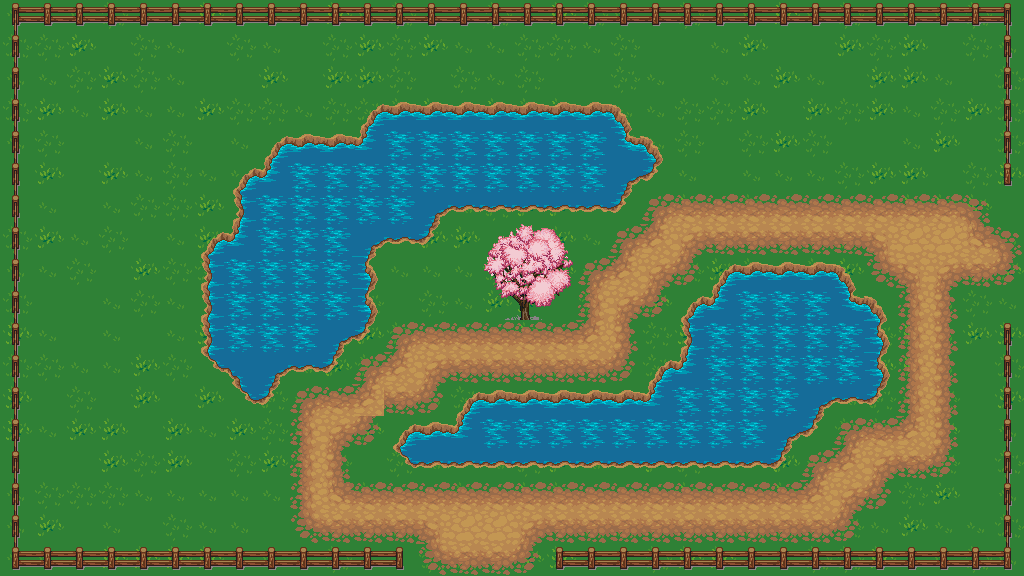
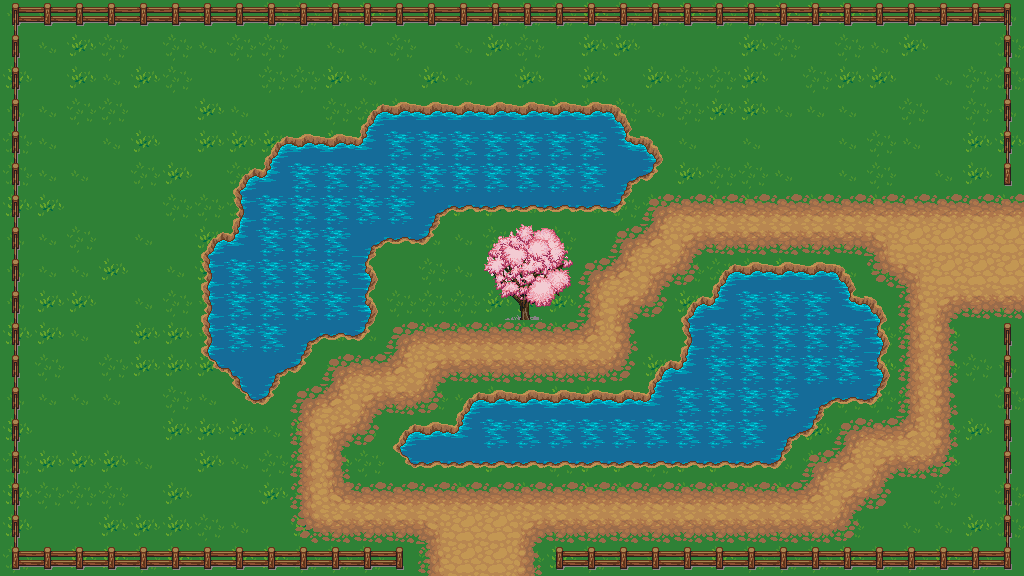
Finalized map changes

diff --git a/mapGen.py b/mapGen.py
@@ -61,8 +61,6 @@ class Tile():
         # 1110 1111
         #&0001 0000
         #printNow(not around & upAndRight)
-        printNow(around)
-        printNow(self.desc)
         if self.desc == "fence":
             if around & right:
                 if around & left:
@@ -383,19 +381,19 @@ nfield += "fggggggggggggggggggggggggggggggf"
 nfield += "fggggggggggwwwwwwwwwgggggggggggf"
 nfield += "fgggggggwwwwwwwwwwwwwggggggggggf"
 nfield += "fggggggwwwwwwwwwwwwwwggggggggggf"
-nfield += "fggggggwwwwwwwwwwwwwdddddddddddg"
+nfield += "fggggggwwwwwwwwwwwwwdddddddddddd"
 nfield += "fgggggwwwwwwwwgt,,gddddddddddddd"
 nfield += "fgggggwwwwwwggg,,,ddddwwwwwddddd"
-nfield += "fgggggwwwwwwggg,,,dddwwwwwwwddgg"
+nfield += "fgggggwwwwwwggg,,,dddwwwwwwwdddd"
 nfield += "fgggggwwwwwwddddddddgwwwwwwwddgf"
-nfield += "fgggggwwwwwdddddddddwwwwwwwwddgf"
+nfield += "fgggggwwwwddddddddddwwwwwwwwddgf"
 nfield += "fggggggwwdddddwwwwwwwwwwwwwwddgf"
 nfield += "fggggggggdddwwwwwwwwwwwwwwddddgf"
 nfield += "fggggggggddgwwwwwwwwwwwwwdddddgf"
 nfield += "fggggggggdddddddddddddddddddgggf"
 nfield += "fggggggggddddddddddddddddddggggf"
 nfield += "fffffffffffffddddfffffffffffffff"
-fieldMap = Map(field, grass, "Nfield.png")
+fieldMap = Map(nfield, grass, "Nfield.png")
 
 efield  = "fffffffffffffddddfffffffffffffff"
 efield += "fggggggggggggddddggggggggggggggf"
@@ -415,7 +413,7 @@ efield += "fgwwwwwwwwwwwggggggggggg,,,,,,gf"
 efield += "fggwwwwwwwgggggggggggggg,,,,,,gf"
 efield += "fggggggggggggggggggggggggggggggf"
 efield += "ffffffffffffffffffffffffffffffff"
-fieldMap = Map(field, grass, "Efield.png")
+fieldMap = Map(efield, grass, "Efield.png")
 
 nefield  = "ffffffffffffffffffffffffffffffff"
 nefield += "fggggggggggggggggggggggggggggggf"
@@ -435,7 +433,7 @@ nefield += "fgggggggdddddddddggggggggggggggf"
 nefield += "fggggggggggggddddggggggggggggggf"
 nefield += "fggggggggggggddddggggggggggggggf"
 nefield += "fffffffffffffddddfffffffffffffff"
-fieldMap = Map(field, grass, "NEfield.png")
+fieldMap = Map(nefield, grass, "NEfield.png")
 
 entrance  = "SSSSSSSSSSSSSSSllSSSSSSSSSSSSSSS"
 entrance += "SllllllllllllllllllllllllllllllS"
@@ -455,7 +453,7 @@ entrance += "SllllllllllllllllllllllllllllllS"
 entrance += "SllllllllllllllllllllllllllllllS"
 entrance += "SllllllllllllllllllllllllllllllS"
 entrance += "SSSSSSSSSSSSSSSSSSSSSSSSSSSSSSSS"
-dungeonMap = Map(dungeon, lavaRock, "dungeonMap.png")
+#dungeonMap = Map(entrance, lavaRock, "dungeonMap.png")
 
 westRoom  = "SSSSSSSSSSSSSSSllSSSSSSSSSSSSSSS"
 westRoom += "SllllllllllllllllllllllllllllllS"
@@ -475,7 +473,7 @@ westRoom += "SllllllllllllllllllllllllllllllS"
 westRoom += "SllllllllllllllllllllllllllllllS"
 westRoom += "SllllllllllllllllllllllllllllllS"
 westRoom += "SSSSSSSSSSSSSSSSSSSSSSSSSSSSSSSS"
-dungeonMap = Map(dungeon, lavaRock, "dungeonMap.png")
+#dungeonMap = Map(westRoom, lavaRock, "dungeonMap.png")
 
 eastRoom  = "SSSSSSSSSSSSSSSllSSSSSSSSSSSSSSS"
 eastRoom += "SllllllllllllllllllllllllllllllS"
@@ -495,7 +493,7 @@ eastRoom += "SlllLLLLLLLlllllllllLLLLLLLllllS"
 eastRoom += "SllllllllllllllllllllllllllllllS"
 eastRoom += "SllllllllllllllllllllllllllllllS"
 eastRoom += "SSSSSSSSSSSSSSSllSSSSSSSSSSSSSSS"
-dungeonMap = Map(dungeon, lavaRock, "dungeonMap.png")
+#dungeonMap = Map(eastRoom, lavaRock, "dungeonMap.png")
 
 keyRoom  = "SSSSSSSSSSSSSSSSSSSSSSSSSSSSSSSS"
 keyRoom += "SLLLLLLLLLLLLLLLLLLLLLLLLLLLLLLS"
@@ -515,7 +513,7 @@ keyRoom += "SLLLLLLLLLLLLLllllLLLLLLLLLLLLLS"
 keyRoom += "SLLLLLLLLLLLLLllllLLLLLLLLLLLLLS"
 keyRoom += "SLLLLLLLLLLLLLllllLLLLLLLLLLLLLS"
 keyRoom += "SSSSSSSSSSSSSSSllSSSSSSSSSSSSSSS"
-dungeonMap = Map(dungeon, lavaRock, "dungeonMap.png")
+#dungeonMap = Map(keyRoom, lava, "dungeonMap.png")
 
 miniBoss  = "SSSSSSSSSSSSSSSSSSSSSSSSSSSSSSSS"
 miniBoss += "SLLLLLLLLLLLLLLLLLLLLLLLLLLLLLLS"
@@ -535,7 +533,7 @@ miniBoss += "SLLLLLLLLLLLLLllllLLLLLLLLLLLLLS"
 miniBoss += "SLLLLLLLLLLLLLllllLLLLLLLLLLLLLS"
 miniBoss += "SLLLLLLLLLLLLLllllLLLLLLLLLLLLLS"
 miniBoss += "SSSSSSSSSSSSSSSllSSSSSSSSSSSSSSS"
-dungeonMap = Map(dungeon, lavaRock, "dungeonMap.png")
+#dungeonMap = Map(miniBoss, lava, "dungeonMap.png")
 
 bossKey  = "SSSSSSSSSSSSSSSllSSSSSSSSSSSSSSS"
 bossKey += "SLLLLLLLLLLLLLllllLLLLLLLLLLLLLS"
@@ -555,7 +553,7 @@ bossKey += "SLLLLLLllllllllllllllllllLLLLLLS"
 bossKey += "SLLLLLLLLLLLLLLLLLLLLLLLLLLLLLLS"
 bossKey += "SLLLLLLLLLLLLLLLLLLLLLLLLLLLLLLS"
 bossKey += "SSSSSSSSSSSSSSSSSSSSSSSSSSSSSSSS"
-dungeonMap = Map(dungeon, lavaRock, "dungeonMap.png")
+#dungeonMap = Map(bossKey, lava, "dungeonMap.png")
 
 bossRoom  = "SSSSSSSSSSSSSSSSSSSSSSSSSSSSSSSS"
 bossRoom += "SLLLLLLLLLLLLLLLLLLLLLLLLLLLLLLS"
@@ -575,7 +573,8 @@ bossRoom += "SLLLLLLLLLLLLLllllLLLLLLLLLLLLLS"
 bossRoom += "SLLLLLLLLLLLLLllllLLLLLLLLLLLLLS"
 bossRoom += "SLLLLLLLLLLLLLllllLLLLLLLLLLLLLS"
 bossRoom += "SSSSSSSSSSSSSSSllSSSSSSSSSSSSSSS"
-dungeonMap = Map(dungeon, lavaRock, "dungeonMap.png")
+#dungeonMap = Map(bossRoom, lava, "dungeonMap.png")
+
 def makeDungeon():
     dungeonPath = "dungeon/"
     global entrance
@@ -592,3 +591,5 @@ def makeDungeon():
     miniBoss = Map(miniBoss,lava, dungeonPath + "miniBoss.png")
     bossKey = Map(bossKey,lava, dungeonPath + "bossKey.png")
     bossRoom = Map(bossRoom,lava, dungeonPath + "bossRoom.png")
+
+makeDungeon()

diff --git a/RobotSaga.py b/RobotSaga.py
@@ -899,7 +899,7 @@ class Area():
 
 
 class AreaData():
-  TOWN_AREA = Area(RawSprite(WorldData.path + "newBack.png", 0, 0, 6), None, [StationaryAnimatedSprite(WorldData.path + "/EffectSprites/blankWater.gif", WorldData.path + "/EffectSprites/waterMoving.gif", 256, 352),
+  TOWN_AREA = Area(RawSprite(WorldData.path + "townMap.png", 0, 0, 6), None, [StationaryAnimatedSprite(WorldData.path + "/EffectSprites/blankWater.gif", WorldData.path + "/EffectSprites/waterMoving.gif", 256, 352),
                   ThreeStageAnimationCycle(WorldData.path + "/EffectSprites/sakuraMoving1.gif", WorldData.path + "/EffectSprites/sakuraMoving2.gif", WorldData.path + "/EffectSprites/sakuraMoving3.gif", 320, 0, .3),
                   ThreeStageAnimationCycle(WorldData.path + "/EffectSprites/sakuraMoving1.gif", WorldData.path + "/EffectSprites/sakuraMoving2.gif", WorldData.path + "/EffectSprites/sakuraMoving3.gif", 896, 384, .3)])
   E_FIELD_AREA = Area(RawSprite(WorldData.path + "Efield.png", 0, 0, 6), None, [ThreeStageAnimationCycle(WorldData.path + "/EffectSprites/sakuraMoving1.gif", WorldData.path + "/EffectSprites/sakuraMoving2.gif", WorldData.path + "/EffectSprites/sakuraMoving3.gif", 768, 384, .2),
@@ -4383,12 +4383,12 @@ def areaSetup():
   nfield += "fggggggggggwwwwwwwwwgggggggggggf"
   nfield += "fgggggggwwwwwwwwwwwwwggggggggggf"
   nfield += "fggggggwwwwwwwwwwwwwwggggggggggf"
-  nfield += "fggggggwwwwwwwwwwwwwdddddddddddg"
+  nfield += "fggggggwwwwwwwwwwwwwdddddddddddd"
   nfield += "fgggggwwwwwwwwgt,,gddddddddddddd"
   nfield += "fgggggwwwwwwggg,,,ddddwwwwwddddd"
-  nfield += "fgggggwwwwwwggg,,,dddwwwwwwwddgg"
+  nfield += "fgggggwwwwwwggg,,,dddwwwwwwwdddd"
   nfield += "fgggggwwwwwwddddddddgwwwwwwwddgf"
-  nfield += "fgggggwwwwwdddddddddwwwwwwwwddgf"
+  nfield += "fgggggwwwwddddddddddwwwwwwwwddgf"
   nfield += "fggggggwwdddddwwwwwwwwwwwwwwddgf"
   nfield += "fggggggggdddwwwwwwwwwwwwwwddddgf"
   nfield += "fggggggggddgwwwwwwwwwwwwwdddddgf"
